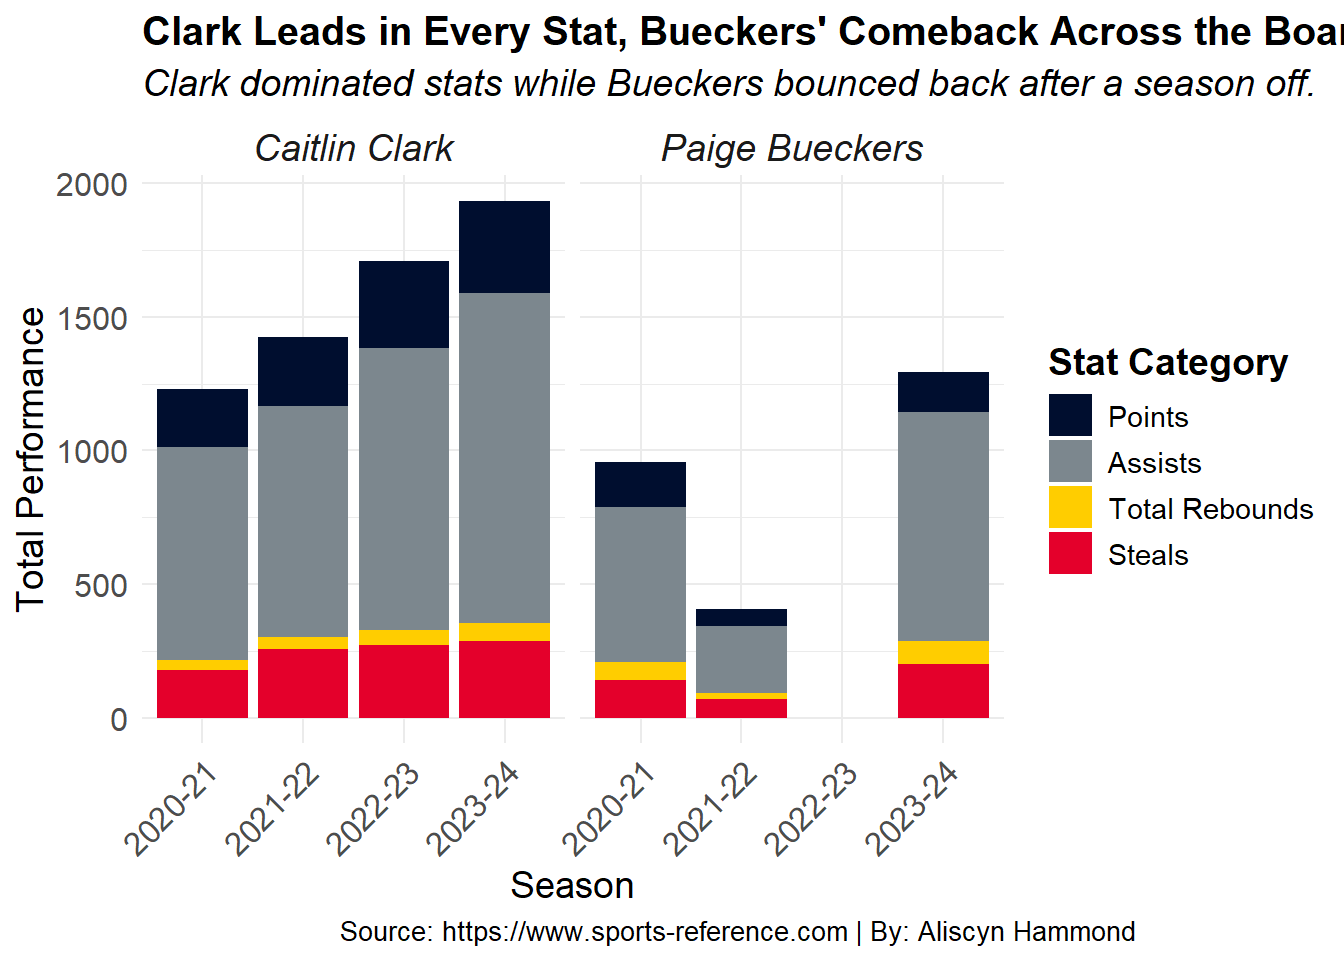
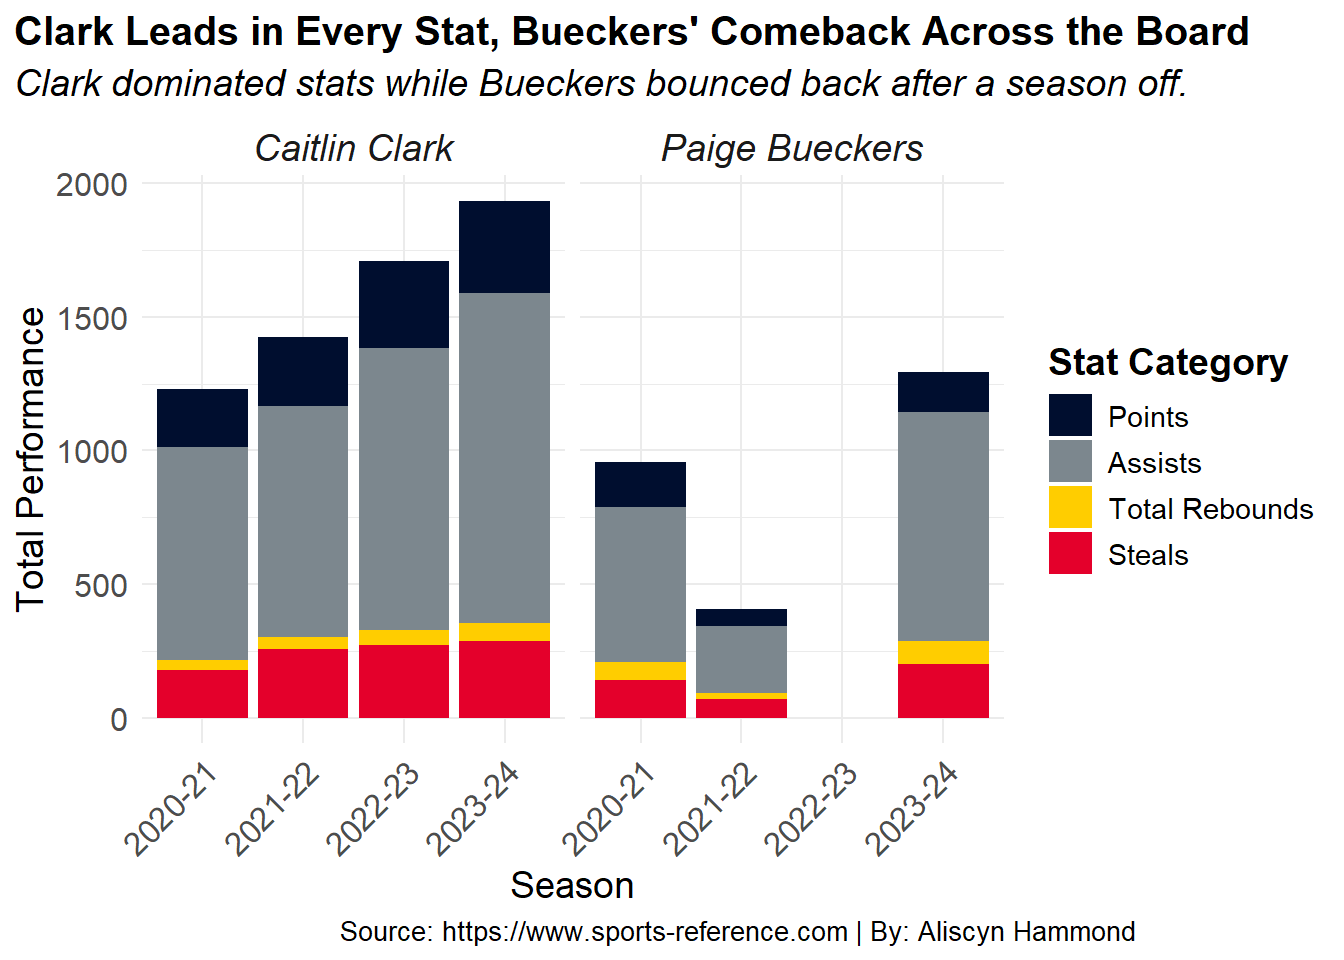
fixed more font issues

Changed region(s): [[0.0, 0.0, 1.0, 0.125]]

diff --git a/posts/paige_caitlin_basketball/index.html b/posts/paige_caitlin_basketball/index.html
@@ -284,11 +284,12 @@ pre > code.sourceCode > span > a:first-child::before { text-decoration: underlin
 <span id="cb2-27"><a href="#cb2-27" aria-hidden="true" tabindex="-1"></a>        <span class="at">axis.title.x =</span><span class="fu">element_text</span>(<span class="at">size=</span><span class="dv">14</span>),</span>
 <span id="cb2-28"><a href="#cb2-28" aria-hidden="true" tabindex="-1"></a>        <span class="at">axis.title.y =</span><span class="fu">element_text</span>(<span class="at">size=</span><span class="dv">14</span>),</span>
 <span id="cb2-29"><a href="#cb2-29" aria-hidden="true" tabindex="-1"></a>        <span class="at">axis.text =</span><span class="fu">element_text</span>(<span class="at">size=</span><span class="dv">12</span>),</span>
-<span id="cb2-30"><a href="#cb2-30" aria-hidden="true" tabindex="-1"></a>        <span class="at">legend.text =</span><span class="fu">element_text</span>(<span class="at">size=</span><span class="dv">11</span>),</span>
-<span id="cb2-31"><a href="#cb2-31" aria-hidden="true" tabindex="-1"></a>        <span class="at">legend.title =</span><span class="fu">element_text</span>(<span class="at">size=</span><span class="dv">14</span>,<span class="at">face=</span><span class="st">"bold"</span>),</span>
-<span id="cb2-32"><a href="#cb2-32" aria-hidden="true" tabindex="-1"></a>        <span class="at">strip.text=</span><span class="fu">element_text</span>(<span class="at">size=</span><span class="dv">14</span>,<span class="at">face=</span><span class="st">"italic"</span>),</span>
-<span id="cb2-33"><a href="#cb2-33" aria-hidden="true" tabindex="-1"></a>        <span class="at">plot.caption =</span> <span class="fu">element_text</span>(<span class="at">size =</span> <span class="dv">10</span>, <span class="at">hjust =</span> <span class="dv">3</span>)</span>
-<span id="cb2-34"><a href="#cb2-34" aria-hidden="true" tabindex="-1"></a>  )</span></code><button title="Copy to Clipboard" class="code-copy-button"><i class="bi"></i></button></pre></div>
+<span id="cb2-30"><a href="#cb2-30" aria-hidden="true" tabindex="-1"></a>        <span class="at">plot.title.position =</span> <span class="st">"plot"</span>,</span>
+<span id="cb2-31"><a href="#cb2-31" aria-hidden="true" tabindex="-1"></a>        <span class="at">legend.text =</span><span class="fu">element_text</span>(<span class="at">size=</span><span class="dv">11</span>),</span>
+<span id="cb2-32"><a href="#cb2-32" aria-hidden="true" tabindex="-1"></a>        <span class="at">legend.title =</span><span class="fu">element_text</span>(<span class="at">size=</span><span class="dv">14</span>,<span class="at">face=</span><span class="st">"bold"</span>),</span>
+<span id="cb2-33"><a href="#cb2-33" aria-hidden="true" tabindex="-1"></a>        <span class="at">strip.text=</span><span class="fu">element_text</span>(<span class="at">size=</span><span class="dv">14</span>,<span class="at">face=</span><span class="st">"italic"</span>),</span>
+<span id="cb2-34"><a href="#cb2-34" aria-hidden="true" tabindex="-1"></a>        <span class="at">plot.caption =</span> <span class="fu">element_text</span>(<span class="at">size =</span> <span class="dv">10</span>, <span class="at">hjust =</span> <span class="dv">3</span>)</span>
+<span id="cb2-35"><a href="#cb2-35" aria-hidden="true" tabindex="-1"></a>  )</span></code><button title="Copy to Clipboard" class="code-copy-button"><i class="bi"></i></button></pre></div>
 </details>
 <div class="cell-output-display">
 <div>
@@ -317,7 +318,7 @@ pre > code.sourceCode > span > a:first-child::before { text-decoration: underlin
 <span id="cb3-13"><a href="#cb3-13" aria-hidden="true" tabindex="-1"></a>  <span class="fu">theme_minimal</span>() <span class="sc">+</span></span>
 <span id="cb3-14"><a href="#cb3-14" aria-hidden="true" tabindex="-1"></a>  <span class="fu">theme</span>(</span>
 <span id="cb3-15"><a href="#cb3-15" aria-hidden="true" tabindex="-1"></a>    <span class="at">plot.title =</span> <span class="fu">element_text</span>(<span class="at">size =</span> <span class="dv">14</span>, <span class="at">face =</span> <span class="st">"bold"</span>),</span>
-<span id="cb3-16"><a href="#cb3-16" aria-hidden="true" tabindex="-1"></a>    <span class="at">plot.subtitle =</span> <span class="fu">element_text</span>(<span class="at">size =</span> <span class="dv">12</span>, <span class="at">face =</span> <span class="st">"italic"</span>),</span>
+<span id="cb3-16"><a href="#cb3-16" aria-hidden="true" tabindex="-1"></a>    <span class="at">plot.subtitle =</span> <span class="fu">element_text</span>(<span class="at">size =</span> <span class="dv">11</span>, <span class="at">face =</span> <span class="st">"italic"</span>),</span>
 <span id="cb3-17"><a href="#cb3-17" aria-hidden="true" tabindex="-1"></a>    <span class="at">axis.title.x =</span> <span class="fu">element_text</span>(<span class="at">size =</span> <span class="dv">11</span>),</span>
 <span id="cb3-18"><a href="#cb3-18" aria-hidden="true" tabindex="-1"></a>    <span class="at">axis.title.y =</span> <span class="fu">element_text</span>(<span class="at">size =</span> <span class="dv">11</span>),</span>
 <span id="cb3-19"><a href="#cb3-19" aria-hidden="true" tabindex="-1"></a>    <span class="at">plot.title.position =</span> <span class="st">"plot"</span>,</span>

diff --git a/index.html b/index.html
@@ -210,7 +210,7 @@ window.Quarto = {
 
 <div class="quarto-listing quarto-listing-container-default" id="listing-listing">
 <div class="list quarto-listing-default">
-<div class="quarto-post image-right" data-index="0" data-categories="YmFza2V0YmFsbCx3b21lbiBzcG9ydHMsY29sbGVnZSBzcG9ydHM=" data-listing-date-sort="1733724000000" data-listing-file-modified-sort="1733548354740" data-listing-date-modified-sort="NaN" data-listing-reading-time-sort="5" data-listing-word-count-sort="956">
+<div class="quarto-post image-right" data-index="0" data-categories="YmFza2V0YmFsbCx3b21lbiBzcG9ydHMsY29sbGVnZSBzcG9ydHM=" data-listing-date-sort="1733724000000" data-listing-file-modified-sort="1733548508368" data-listing-date-modified-sort="NaN" data-listing-reading-time-sort="5" data-listing-word-count-sort="966">
 <div class="thumbnail">
 <p><a href="./posts/paige_caitlin_basketball/index.html" class="no-external"></a></p><a href="./posts/paige_caitlin_basketball/index.html" class="no-external">
 <p><img loading="lazy" src="./posts/paige_caitlin_basketball/image.png" class="thumbnail-image"></p>
